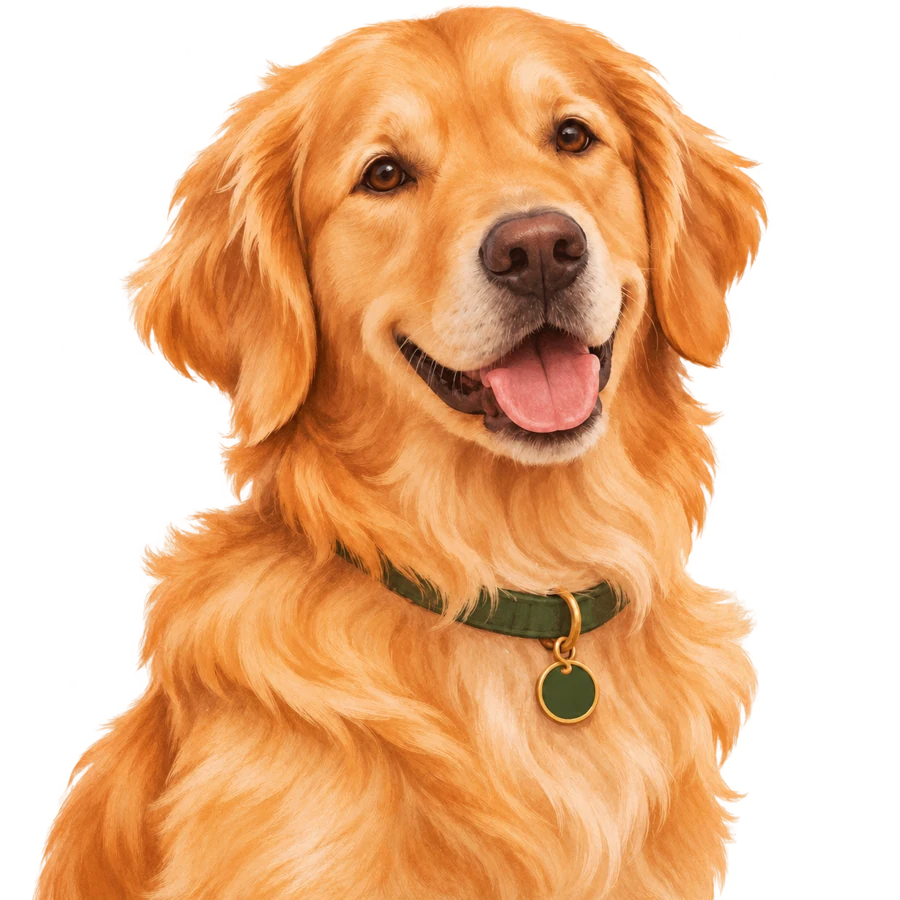
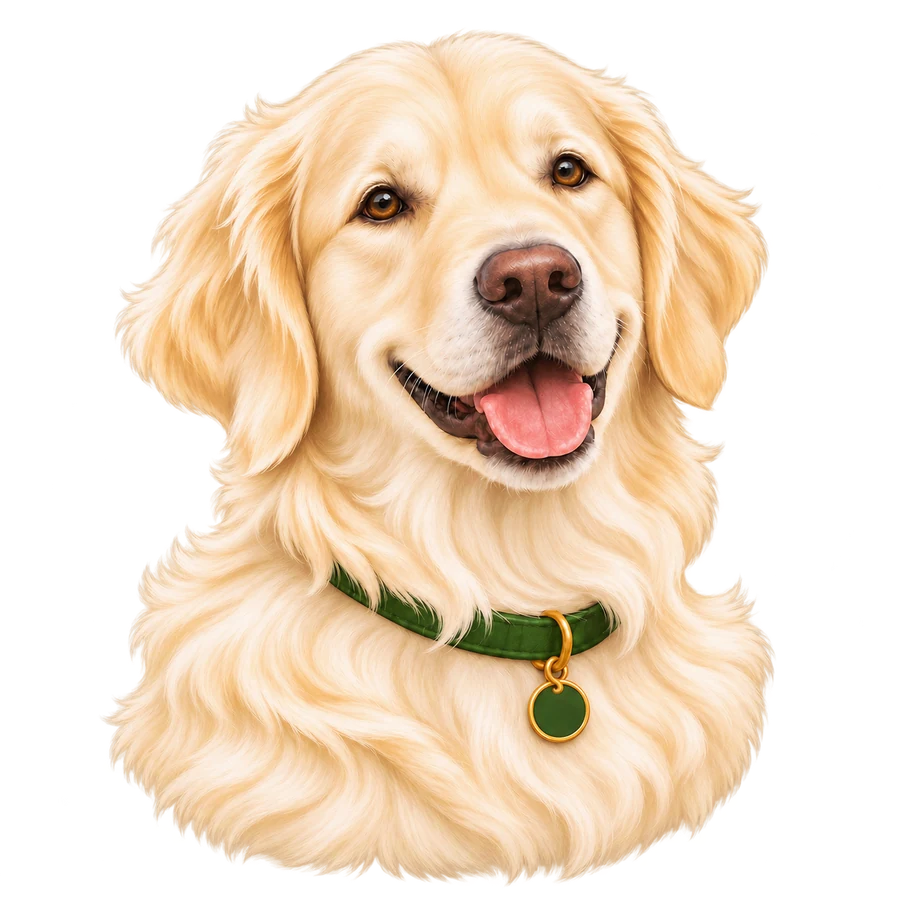
Refresh Ruffster mascot and parent dashboard design

diff --git a/family_activity/parent_assets/app.css b/family_activity/parent_assets/app.css
@@ -1,18 +1,123 @@
-:root{font:16px/1.55 system-ui,sans-serif;color:#22352e;background:#f4f7f2}*{box-sizing:border-box}body{margin:0}header{background:#153d32;color:#fff;padding:2.4rem 0 2rem}.wrap{max-width:900px;margin:auto;padding:0 1.25rem}.eyebrow{font-size:.75rem;letter-spacing:.12em;font-weight:700;color:#bbdfcc}h1{font-size:clamp(2rem,5vw,3.3rem);line-height:1.1;margin:.5rem 0}header p{max-width:44rem;color:#e0eee5}main{padding-top:1rem!important;padding-bottom:4rem!important}.card,.note{background:#fff;border:1px solid #d6e4da;border-radius:14px;padding:1.4rem;margin:1rem 0;box-shadow:0 4px 18px #1735260b}h2{font-size:1.25rem;margin:.1rem 0}h3{font-size:1rem}label{display:block;font-weight:650;margin-top:.8rem}input{display:block;max-width:100%;margin:.3rem 0 .7rem;padding:.65rem;border:1px solid #9aafa2;border-radius:6px}input[type=password]{width:28rem}button{background:#236348;color:white;border:0;border-radius:7px;padding:.7rem 1rem;font:inherit;font-weight:650;cursor:pointer}button:focus-visible,a:focus-visible,input:focus-visible,select:focus-visible{outline:3px solid #e6a326;outline-offset:3px}.secondary{background:#e8f1eb;color:#1b4837}.row{display:flex;align-items:center;gap:1rem;flex-wrap:wrap;margin-top:1rem}a{color:#165a3d}.fine{font-size:.88rem;color:#586e62}.grid{display:grid;grid-template-columns:repeat(auto-fit,minmax(220px,1fr));gap:1rem}li{overflow-wrap:anywhere}.note{background:#e8f3eb}#message:not(:empty){padding:.8rem;border-radius:6px;background:#fff2d3;color:#543900}
-button:disabled{background:#d7dfd9;color:#53635a;cursor:not-allowed;opacity:1}
-
-fieldset{border:1px solid #c7d8cc;border-radius:6px;margin:.8rem 0}.days{display:flex;gap:1rem;flex-wrap:wrap}.days label{display:flex;align-items:center;gap:.3rem;margin:.2rem 0}.days input{margin:0}select{padding:.5rem;border:1px solid #9aafa2;border-radius:6px}
-
-textarea{display:block;width:min(100%,35rem);padding:.65rem;border:1px solid #9aafa2;border-radius:6px;resize:vertical;margin:.3rem 0 .7rem;font:inherit}textarea:focus-visible{outline:3px solid #e6a326;outline-offset:3px}
-details{margin-top:1.25rem;padding-top:1rem;border-top:1px solid #d6e4da}summary{width:fit-content;color:#165a3d;font-weight:650;cursor:pointer}summary:focus-visible{outline:3px solid #e6a326;outline-offset:3px}
-
-.journey{border-color:#bfd5c5}.steps{list-style:none;display:grid;grid-template-columns:repeat(4,minmax(0,1fr));gap:.8rem;padding:0;margin:1rem 0}.steps li{display:flex;align-items:flex-start;gap:.65rem;padding:.8rem;border:1px solid #d6e4da;border-radius:9px;color:#52685d}.steps li.current{border-color:#236348;background:#edf5ef;color:#173d2e}.steps li.complete .step-number{background:#236348;color:#fff}.step-number{display:grid;place-items:center;flex:0 0 1.8rem;height:1.8rem;border-radius:50%;background:#e8f1eb;font-weight:700}.steps strong,.steps small{display:block}.steps small{font-size:.85rem;line-height:1.4;margin-top:.15rem;color:#586e62}.steps li.current small{color:#345c49}.next-step{margin:.2rem 0 0;padding:.75rem 1rem;background:#f4f7f2;border-left:4px solid #236348;border-radius:4px;font-weight:600}@media(max-width:640px){.steps{grid-template-columns:1fr}.steps li{padding:.65rem}}
-.measurement-tag{display:inline-block;vertical-align:middle;margin-left:.35rem;padding:.12rem .5rem;border-radius:999px;font-size:.68rem;font-weight:700;line-height:1.5;letter-spacing:.02em;white-space:nowrap}.measurement-tag.estimate{background:#fff2d3;color:#6a4b00}.measurement-tag.measured{background:#e6f1f8;color:#164f6b}.measurement-tag.observed{background:#e8f3eb;color:#1b5b3c}
-.restore-box{margin-top:1.3rem;padding:1.1rem;background:#f4f7f2;border:1px solid #d6e4da;border-radius:10px}.restore-box h3{margin-top:0}.restore-box input[type=password]{width:min(100%,28rem)}
-.backup-required{margin:1rem 0;padding:1rem 1.15rem;background:#fff5df;border:1px solid #e5c77d;border-left:5px solid #b87919;border-radius:10px}.backup-required h3{margin:.1rem 0 .35rem;color:#543900}.backup-required p{max-width:68ch}.backup-confirm-label{display:flex;align-items:flex-start;gap:.6rem;max-width:55rem}.backup-confirm-label input{flex:0 0 auto;margin:.25rem 0 0}
-.report-card>details{margin:1rem 0;padding:1rem;background:#f7f9f6;border:1px solid #d6e4da;border-radius:10px}.report-card>details>summary{font-size:1rem}.report-card>details>h3:first-of-type{margin-top:1.5rem}.report-card>details[open]>summary{margin-bottom:.7rem}.report-card #snapshot-note{padding:.7rem 1rem;background:#f4f7f2;border-left:4px solid #236348;border-radius:4px}.report-card #monitoring-summary{max-width:70ch;padding:.7rem 1rem;background:#edf5ef;border-left:4px solid #236348;border-radius:4px}.report-card #coverage{max-width:70ch}
-
-.mascot{float:right;width:104px;height:104px;object-fit:contain;margin:-.5rem 0 .5rem 1rem}@media(max-width:480px){.mascot{width:76px;height:76px}}
-
-.device-picker{margin:1rem 0 1.5rem;padding:1rem 1.2rem;background:#edf5ef;border:1px solid #c7d8cc;border-left:5px solid #236348;border-radius:10px}.device-picker>label:first-child{margin-top:0}.device-picker select{width:min(100%,32rem);min-height:2.75rem;font:inherit}.device-picker input{width:min(100%,32rem);font:inherit}.device-picker form{display:flex;align-items:end;gap:.75rem;flex-wrap:wrap}.device-picker form label{flex:1 1 16rem}.device-picker form input{margin:.3rem 0 0}.device-picker form button{flex:0 0 auto}
-.device-picker .danger{margin-top:.75rem;background:#fff0e8;color:#762f1e;border:1px solid #c87455}
+:root {
+  color-scheme: light;
+  --ink: #20342d;
+  --muted: #536458;
+  --paper: #f6f5ef;
+  --card: #fffefa;
+  --line: #dce3d8;
+  --forest: #194c3a;
+  --forest-dark: #10382c;
+  --leaf: #d9e8d2;
+  --sun: #f3d998;
+  --serif: Georgia, "Times New Roman", serif;
+  font: 16px/1.6 system-ui, -apple-system, BlinkMacSystemFont, "Segoe UI", sans-serif;
+  color: var(--ink);
+  background: var(--paper);
+}
+* { box-sizing: border-box; }
+body { margin: 0; background: var(--paper); }
+.wrap { width: min(920px, calc(100% - 40px)); margin: 0 auto; }
+header {
+  position: relative;
+  overflow: hidden;
+  padding: 2.6rem 0 2.25rem;
+  color: #fffdf6;
+  background: radial-gradient(ellipse at 88% 20%, #2a634a 0, transparent 34%), linear-gradient(122deg, var(--forest-dark), var(--forest));
+}
+header::after {
+  position: absolute; right: -72px; bottom: -165px; width: 360px; height: 300px;
+  border: 1px solid #ffffff16; border-radius: 50%; content: ""; transform: rotate(-22deg);
+  box-shadow: 0 0 0 24px #ffffff08, 0 0 0 50px #ffffff06;
+}
+header .wrap { position: relative; z-index: 1; }
+.eyebrow { color: #d3e7c6; font-size: .75rem; font-weight: 750; letter-spacing: .14em; }
+h1, h2, h3 { text-wrap: balance; }
+h1 { max-width: 680px; margin: .45rem 0 .55rem; font: 500 clamp(2.4rem, 7vw, 4.1rem)/1.05 var(--serif); letter-spacing: -.035em; }
+header p { max-width: 48rem; margin: .7rem 0 0; color: #e1ece2; font-size: 1.06rem; }
+main { padding-top: 1.4rem !important; padding-bottom: 5rem !important; }
+.card, .note {
+  margin: 1.15rem 0; padding: clamp(1.15rem, 3vw, 1.8rem);
+  border: 1px solid var(--line); border-radius: 18px; background: var(--card);
+  box-shadow: 0 9px 28px #173b290b, 0 1px 2px #173b2908;
+}
+.card h2 { margin: 0 0 .65rem; font: 600 1.55rem/1.25 var(--serif); letter-spacing: -.015em; }
+.card h3 { margin: 1.7rem 0 .4rem; color: var(--forest); font-size: 1.08rem; }
+.card h4 { margin: 1.1rem 0 .35rem; }
+p { max-width: 72ch; }
+label { display: block; margin-top: .9rem; font-weight: 680; }
+small, .fine { display: block; color: var(--muted); font-size: .9rem; }
+input, select, textarea {
+  max-width: 100%; padding: .72rem .8rem; border: 1px solid #aebdb0; border-radius: 9px;
+  background: #fff; color: var(--ink); font: inherit;
+}
+input { margin: .35rem 0 .7rem; }
+input[type=password], .restore-box input[type=password] { width: min(100%, 28rem); }
+select { min-height: 2.8rem; }
+textarea { display: block; width: min(100%, 35rem); margin: .35rem 0 .7rem; resize: vertical; }
+button, .row a {
+  display: inline-flex; align-items: center; justify-content: center; min-height: 2.8rem; padding: .66rem 1.05rem;
+  border: 0; border-radius: 9px; background: var(--forest); color: white; font: inherit; font-weight: 680;
+  text-decoration: none; cursor: pointer; transition: transform .15s ease, background-color .15s ease, box-shadow .15s ease;
+}
+button:hover:not(:disabled), .row a:hover { background: #286548; box-shadow: 0 4px 12px #163c2a25; transform: translateY(-1px); }
+button:disabled { background: #dce3dc; color: #67746c; cursor: not-allowed; }
+button:focus-visible, a:focus-visible, input:focus-visible, select:focus-visible, textarea:focus-visible, summary:focus-visible {
+  outline: 3px solid #d09b27; outline-offset: 3px;
+}
+a { color: #205e43; text-underline-offset: 3px; }
+.secondary { border: 1px solid #cbd9cc; background: #edf3e9; color: #244d39; }
+.secondary:hover:not(:disabled) { background: #e1ecdd; }
+.row { display: flex; align-items: center; gap: .7rem; flex-wrap: wrap; margin-top: 1rem; }
+.journey { border-color: #cbd9c9; background: linear-gradient(135deg, #fffefa, #f3f7ef); }
+.steps { display: grid; grid-template-columns: repeat(4, minmax(0,1fr)); gap: .65rem; margin: 1.2rem 0; padding: 0; list-style: none; }
+.steps li { display: flex; align-items: flex-start; gap: .6rem; min-width: 0; padding: .75rem; border: 1px solid #e1e7de; border-radius: 12px; color: #596b60; background: #fffefa; }
+.steps li.current { border-color: #80a48a; background: #edf5e9; color: #173d2e; box-shadow: inset 0 0 0 1px #80a48a33; }
+.steps li.complete .step-number { background: var(--forest); color: white; }
+.step-number { display: grid; place-items: center; flex: 0 0 1.8rem; height: 1.8rem; border-radius: 50%; background: var(--leaf); font-weight: 750; }
+.steps strong, .steps small { display: block; }
+.steps small { margin-top: .16rem; font-size: .82rem; line-height: 1.4; }
+.next-step, #message:not(:empty) { padding: .8rem 1rem; border-left: 4px solid #58805d; border-radius: 5px 10px 10px 5px; background: #edf4e8; font-weight: 620; }
+#message:not(:empty) { color: #24442f; }
+.grid { display: grid; grid-template-columns: repeat(auto-fit, minmax(220px,1fr)); gap: 1rem; }
+li { overflow-wrap: anywhere; }
+.measurement-tag { display: inline-block; margin-left: .35rem; padding: .12rem .52rem; border-radius: 999px; font-size: .68rem; font-weight: 720; line-height: 1.5; white-space: nowrap; }
+.measurement-tag.estimate { background: #fff0cf; color: #684900; }
+.measurement-tag.measured { background: #e4eff2; color: #174c5d; }
+.measurement-tag.observed { background: #e4f0e3; color: #28583c; }
+fieldset { margin: .9rem 0; border: 1px solid var(--line); border-radius: 10px; }
+.days { display: flex; gap: .9rem; flex-wrap: wrap; }
+.days label { display: flex; align-items: center; gap: .3rem; margin: .2rem 0; }
+.days input { margin: 0; }
+details { margin-top: 1rem; padding-top: .85rem; border-top: 1px solid #e4e8e0; }
+summary { width: fit-content; color: #205e43; font-weight: 680; cursor: pointer; }
+.restore-box { margin-top: 1.3rem; padding: 1.1rem; border: 1px solid var(--line); border-radius: 12px; background: #f4f6f0; }
+.backup-required { margin: 1rem 0; padding: 1rem 1.15rem; border: 1px solid #e5c77d; border-left: 5px solid #b87919; border-radius: 10px; background: #fff5df; }
+.backup-confirm-label { display: flex; align-items: flex-start; gap: .6rem; max-width: 55rem; }
+.backup-confirm-label input { flex: 0 0 auto; margin: .25rem 0 0; }
+.report-card>details { margin: 1rem 0; padding: 1rem; border: 1px solid var(--line); border-radius: 12px; background: #fafbf7; }
+.report-card>details>summary { font-size: 1rem; }
+.report-card #snapshot-note, .report-card #monitoring-summary { max-width: 70ch; padding: .8rem 1rem; border-left: 4px solid #58805d; border-radius: 5px 10px 10px 5px; background: #edf4e8; }
+.report-card #coverage { max-width: 70ch; }
+.device-picker { margin: 1rem 0 1.5rem; padding: 1rem 1.2rem; border: 1px solid #d2dfd0; border-left: 5px solid #58805d; border-radius: 12px; background: #f1f5eb; }
+.device-picker>label:first-child { margin-top: 0; }
+.device-picker select, .device-picker input { width: min(100%, 32rem); font: inherit; }
+.device-picker form { display: flex; align-items: end; gap: .75rem; flex-wrap: wrap; }
+.device-picker form label { flex: 1 1 16rem; }
+.device-picker form input { margin: .3rem 0 0; }
+.device-picker .danger { margin-top: .75rem; border: 1px solid #c87455; background: #fff0e8; color: #762f1e; }
+.mascot { float: right; width: 118px; height: 118px; margin: -.5rem 0 .5rem 1rem; object-fit: contain; }
+@media (max-width: 680px) {
+  .wrap { width: min(100% - 28px, 920px); }
+  header { padding: 2rem 0 1.7rem; }
+  .steps { grid-template-columns: 1fr 1fr; }
+  .mascot { width: 86px; height: 86px; }
+}
+@media (max-width: 420px) {
+  .steps { grid-template-columns: 1fr; }
+  .card { border-radius: 14px; }
+  .mascot { width: 72px; height: 72px; }
+  .row button, .row a { flex: 1 1 auto; }
+}
+@media (prefers-reduced-motion: reduce) {
+  *, *::before, *::after { scroll-behavior: auto !important; transition-duration: .01ms !important; }
+}

diff --git a/docs/index.html b/docs/index.html
@@ -78,7 +78,7 @@
       </p>
      </div>
      <figure class="hero-figure">
-      <img class="hero-mascot" src="assets/ruffster-mascot.webp" alt="A friendly golden retriever mascot sitting beside the Ruffster dashboard" width="300" height="300"/>
+      <img class="hero-mascot" src="assets/ruffster-mascot.webp" alt="A friendly white Golden Retriever mascot sitting beside the Ruffster dashboard" width="300" height="300"/>
       <a class="screen-frame" href="assets/parent-dashboard.png">
        <div class="screen-top">
         <i>

diff --git a/ARCHITECTURE-REVIEW.md b/ARCHITECTURE-REVIEW.md
@@ -1,0 +1,48 @@
+# Ruffster architecture and experience review
+
+Reviewed: 2026-11-14
+
+## What is working well
+
+- The shared Python core keeps event validation, retention, schedule logic, encryption, and report math separate from macOS and Windows collection adapters.
+- Native session indicators are part of the monitoring lifecycle. Sampling waits for the indicator to be ready and stops if its heartbeat disappears.
+- The encrypted event log and memory-only report projection avoid leaving decrypted activity in a persistent parent database. The UI distinguishes measured counters from sampled estimates and states what missing data cannot explain.
+- Family-facing pages and synthetic dashboard captures describe the current limits instead of implying complete coverage.
+
+## Findings and next engineering steps
+
+### 1. Report generation is the main scaling risk
+
+`family_activity/parent_app.py` rebuilds a decrypted in-memory projection when producing a report, then selects activity rows and calculates summaries in Python. This keeps decrypted history out of persistent storage, which is a useful privacy property, but makes every report refresh do work proportional to retained history. It also temporarily holds the projection and selected rows in memory.
+
+**Recommendation:** Keep the current privacy boundary for the first family release. Add a benchmark with a realistic 365-day, multi-device report before changing it. If it becomes slow, first reduce duplicate queries and avoid selecting unused columns. Consider an explicitly short-lived in-memory projection only after documenting its lifetime and clearing it on lock; do not add a plaintext disk cache.
+
+### 2. `parent_app.py` has too many responsibilities
+
+The 900-line module contains the loopback HTTP server, request validation, setup and key-transfer routes, import/merge logic, retention, and report assembly. This increases the chance that a UI endpoint change accidentally affects encryption, lifecycle, or local-network behavior.
+
+**Recommendation:** Split only when the next backend feature needs a clean seam. A low-risk first boundary is `report_service.py` for `_report` and report database projection helpers, followed by route handlers grouped around setup, reports, and transfer. Keep `ParentServer` ownership of unlock state and nearby-share lifecycle in one place. Add route-level tests before moving code; avoid a broad mechanical split right before a family install.
+
+### 3. Native platform behavior still needs device checks
+
+The Python core and hosted builds can validate interfaces and packaging, but not the macOS login, sleep/wake, local-network permission, or Windows interactive tray/task behavior on family computers. Treat those as open validation items; do not turn a successful build into a product-readiness claim.
+
+**Recommendation:** Maintain one concise per-platform acceptance checklist with real-device results and the supported OS version. Mac remains first priority, followed by Windows; Linux remains a development host.
+
+### 4. Parent onboarding should feel like a guided welcome
+
+The existing sequence is clear and honest, but its first screen is long and presents recovery, security detail, pairing, and report return close together. The former minimal visual styling also made it feel like a settings form rather than a family companion.
+
+**Changes in this review:** refreshed the parent dashboard visual system with warmer paper tones, forest greens, serif display headings, clearer cards and step states, larger touch targets, and responsive layouts. Updated the mascot and Mac icon to a white/cream Golden Retriever. Increased muted text contrast after the automated checker flagged the initial palette.
+
+**Next UX work:** test the first-run flow with a parent who has not seen the project. Consider introducing parent access and recovery as a short two-screen flow, then reveal child setup after the recovery copy is saved. Keep the existing explanations available in context. The setup screen should answer, in this order: what Ruffster observes, what it never observes, what the child can see, and what the parent does next.
+
+### 5. Website collection remains optional and easy to misread
+
+The dashboard already explains that the browser add-on runs on the child's computer, can be paused, and does not provide complete browsing coverage. This is honest, but the current explanation is lengthy and can distract from the working app and network summary.
+
+**Recommendation:** Keep website details collapsed by default and label the feature as optional in the setup guide. Do not imply that app or network totals identify a website. Build the integration only when installation, visible status, and data freshness can be explained in one short flow.
+
+## Refactoring decision
+
+No broad backend refactor is justified from this review alone. The best immediate improvement is the dashboard presentation and matching dog artwork. The backend split and report-scaling work should be driven by focused tests and a repeatable benchmark, preserving the current memory-only decryption behavior unless measurements show it is insufficient.

diff --git a/README.md b/README.md
@@ -1,14 +1,16 @@
 # Ruffster
 
-**Make computer use easier to talk about.** Ruffster helps parents and children look at everyday computer use together, especially during school hours. It gives families a clearer picture to discuss, keeps monitoring visible, and encrypts reports for the parent. Our golden retriever mascot is here to make those conversations feel a little easier.
+**Make computer use easier to talk about.** Ruffster helps parents and children look at everyday computer use together, especially during school hours. It gives families a clearer picture to discuss, keeps monitoring visible, and encrypts reports for the parent. Our white Golden Retriever mascot is here to make those conversations feel a little easier.
 
-<p align="center"><img src="docs/assets/ruffster-mascot.webp" alt="Ruffster golden retriever mascot" width="190"></p>
+<p align="center"><img src="docs/assets/ruffster-mascot.webp" alt="Ruffster white Golden Retriever mascot" width="190"></p>
 
 **Ruffster for Mac 0.1.25 is available for families.** Start on the parent Mac, choose six numbers your child doesn't know, and save the recovery copy somewhere you can find it. The app can stay in the shared Applications folder; monitoring is set up for the child's signed-in account only. Sign in to that account, open Ruffster, and set it up together. The setup screen confirms which account it will monitor and waits for the first encrypted sample; the menu-bar paw shows monitoring status. Parents review encrypted reports in the local dashboard and can bring them back over the same Wi-Fi or with a report file. macOS asks families to approve this unsigned Apple-silicon app once in Privacy & Security; the guide walks through it. Windows setup and packaging pass automated checks, and still need review on a logged-in Windows computer before a Windows download is offered.
 
 [Download Ruffster for Mac 0.1.25 (.dmg)](https://github.com/mikeymckay/ruffster/releases/download/mac-family-0.1.25/Ruffster-Mac-Family-App-Apple-Silicon.dmg) · [Release notes and checksum](https://github.com/mikeymckay/ruffster/releases/tag/mac-family-0.1.25) · [How to get started](https://mikeymckay.github.io/ruffster/install.html)
 
 [Project website](https://mikeymckay.github.io/ruffster/) · [Install guide](https://mikeymckay.github.io/ruffster/install.html) · [Progress page](https://mikeymckay.github.io/ruffster/progress.html) · [FAQ](https://mikeymckay.github.io/ruffster/faq.html) · [Privacy and children's rights](PRIVACY-AND-CHILDREN.md) · [Implementation plan](PLAN.md)
+
+The latest [architecture and UX review](ARCHITECTURE-REVIEW.md) summarizes the maintainability and performance findings and the next family-experience improvements.
 
 > **Platform priority:** macOS first, then Windows. Linux is a development and test host only; Linux is not a student-facing target in the current scope.
 
